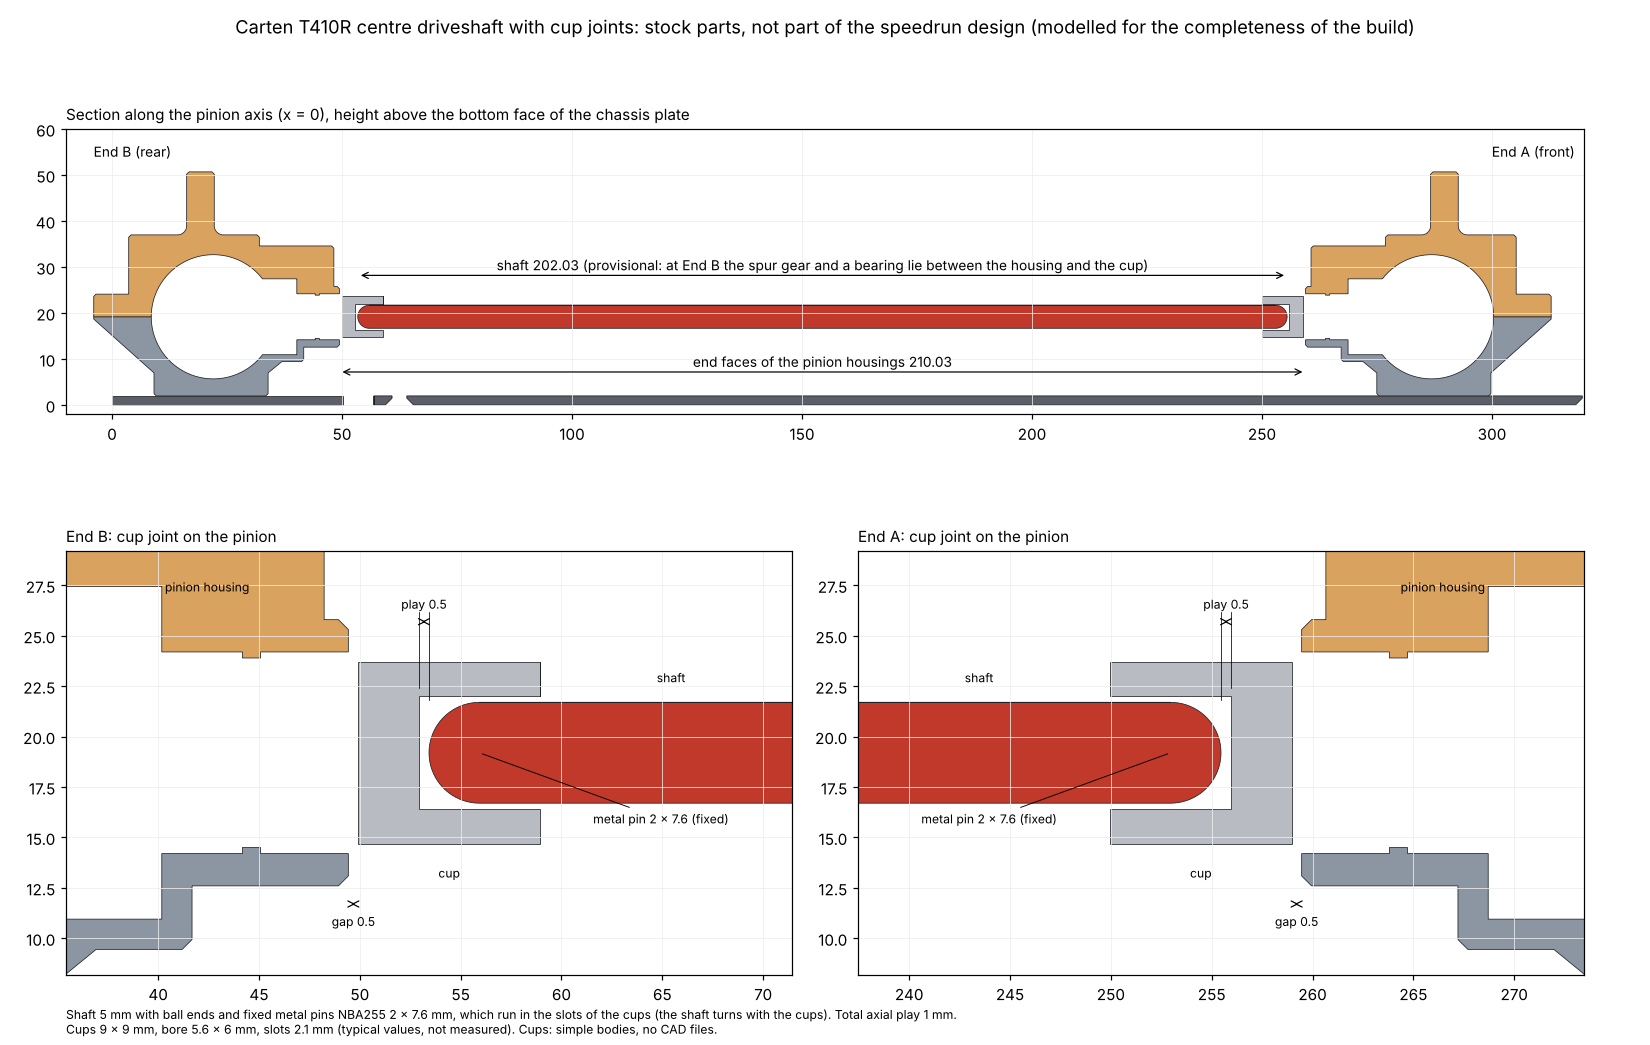
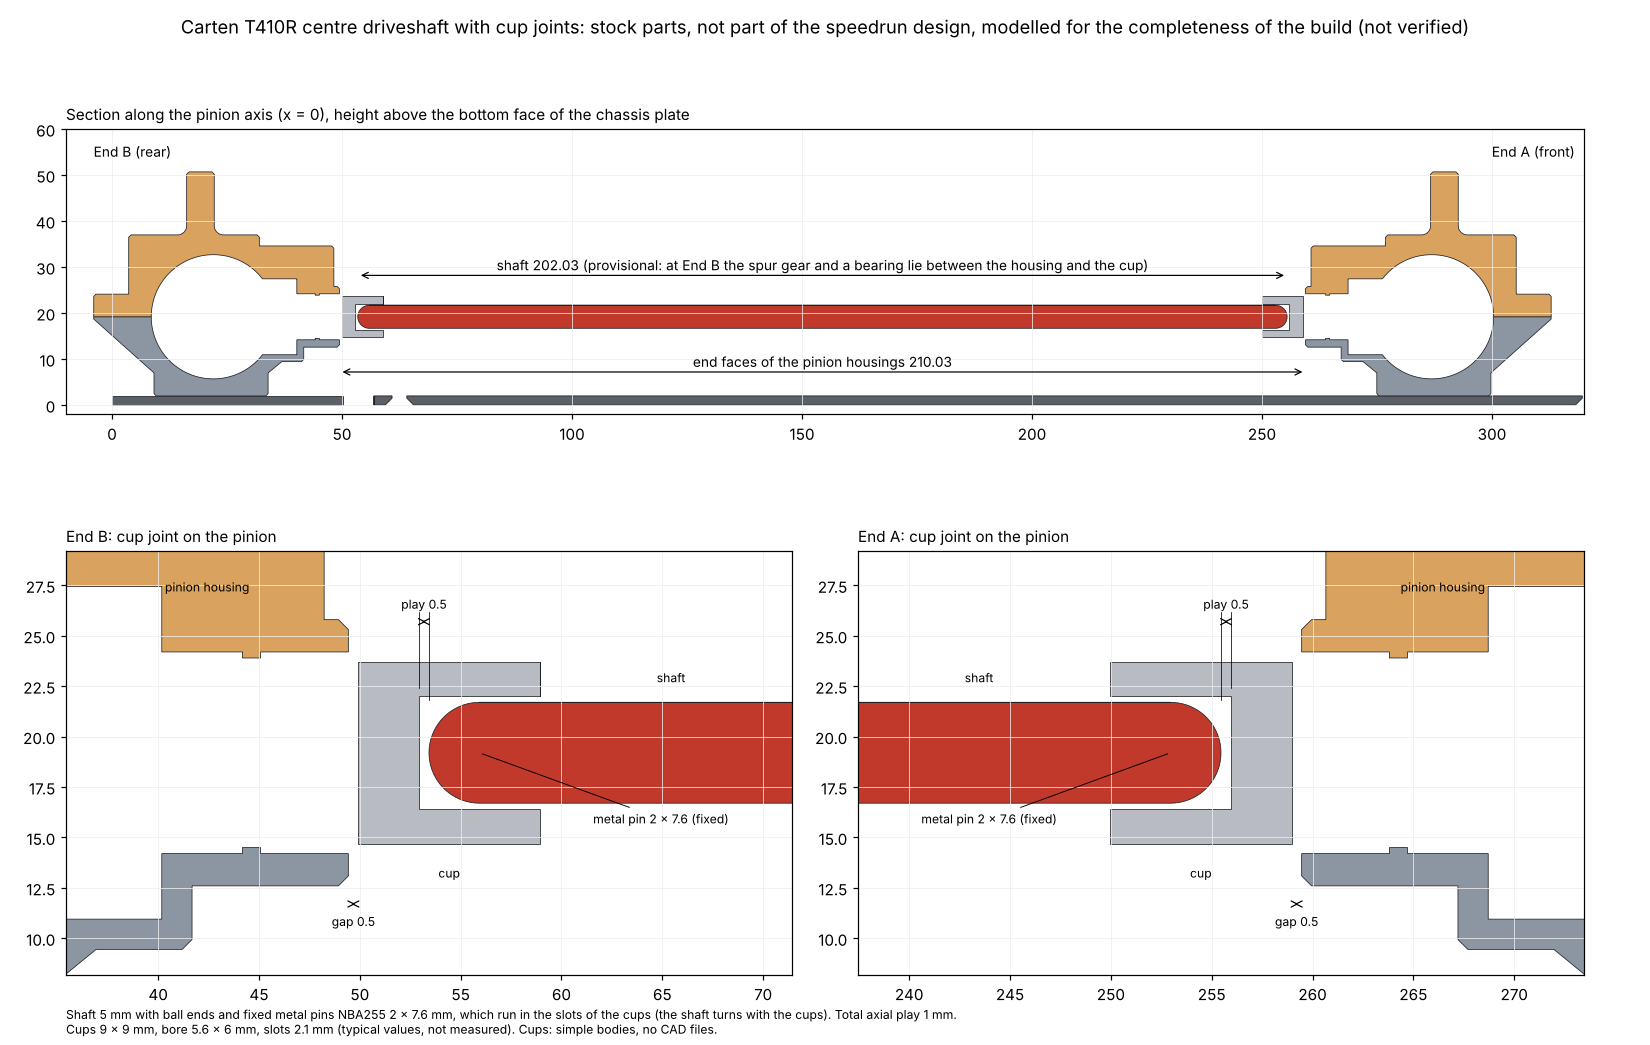
docs: list the stock parts as not verified
- Root readme and CAD readme: table of the stock parts below the parts
  table of the speedrun chassis (pivot blocks, centre driveshaft), status
  "Not verified", not in the mass total. "All parts are verified" now refers
  to the parts of the speedrun design.
- Status lines of the stock part sections, cad/stock_parts/readme.md and
  the titles of the pivot block and driveshaft drawings: not verified.
- CAD readme: the assembly file contains 8 parts of the speedrun chassis
  and 5 stock parts.

Claude-Session: https://claude.ai/code/session_012MJxxEEjoVgHx6jU6rcxWi

Changed region(s): [[0.1236, 0.0, 0.8964, 0.0306]]

diff --git a/scripts/cad/generate_driveshaft.py b/scripts/cad/generate_driveshaft.py
@@ -154,8 +154,8 @@ def drawing(path, p, lay, items):
 
     z = lay["z"]
     fig = plt.figure(figsize=(15, 9.5))
-    fig.suptitle("Carten T410R centre driveshaft with cup joints: stock parts, not part of the speedrun design "
-                 "(modelled for the completeness of the build)", fontsize=12, y=0.985)
+    fig.suptitle("Carten T410R centre driveshaft with cup joints: stock parts, not part of the speedrun design, "
+                 "modelled for the completeness of the build (not verified)", fontsize=12, y=0.985)
     ax = fig.add_axes([0.04, 0.55, 0.92, 0.38])
     draw(ax)
     y0, y1 = lay["shaft"]

diff --git a/scripts/cad/generate_pivot_blocks.py b/scripts/cad/generate_pivot_blocks.py
@@ -134,8 +134,8 @@ def drawing(path, p, solids):
         return out
 
     fig = plt.figure(figsize=(15, 9.5))
-    fig.suptitle("Carten T410R pivot blocks: stock parts, not part of the speedrun design (modelled for the "
-                 "completeness of the build)",
+    fig.suptitle("Carten T410R pivot blocks: stock parts, not part of the speedrun design, modelled for the "
+                 "completeness of the build (not verified)",
                  fontsize=12, y=0.985)
     w = p["width"]
     for row, kind in enumerate(("long", "short")):

diff --git a/cad/readme.md b/cad/readme.md
@@ -97,12 +97,19 @@ The speedrun chassis combines the parts that are designed in this project for sp
 | [Speedrun rear shock tower](#speedrun-shock-towers) | 1 | `/shock_tower` | Verified | Carbon or 7075 | 7.6 g (carbon), 13.4 g (7075) |
 | **Total** | | | | Chassis plate 6082, bulkheads 7075, top brace and shock towers carbon | **417 g** |
 
+Stock parts of the Carten T410R, modelled for the completeness of the build (not part of the speedrun design, not in the mass total):
+
+| Stock part | Quantity | Directory | Status |
+|:---|---:|:---|:---|
+| [Pivot blocks of the wishbones](#pivot-blocks-stock-parts-not-part-of-the-speedrun-design) (long and short block) | 4 | `/stock_parts/pivot_block` | Not verified |
+| [Centre driveshaft with fixed metal pins](#centre-driveshaft-stock-parts-not-part-of-the-speedrun-design) | 1 | `/stock_parts/driveshaft` | Not verified |
+
 * The masses are calculated from the volumes of the solid models (6082: 2.70 g/cm³, 7075: 2.81 g/cm³, carbon: 1.6 g/cm³). Screws, bearings and the other parts of the car are not included.
 * The bulkheads are the same parts at both ends. At End A, they are rotated by 180 degrees, so that both pinions point to the middle of the car.
 * The end of the top brace with the obround is at End B (motor window, spur gear). End A is assumed to be the front (see [open points of the lower bulkhead](#open-points-of-the-lower-bulkhead)).
 
 ### Assembly file
-* `assembly/speedrun_chassis_T410R.step`: assembly of all 8 parts in the coordinate system of the chassis plate (STEP AP214, one solid per part).
+* `assembly/speedrun_chassis_T410R.step`: assembly of the 8 parts of the speedrun chassis and the 5 stock parts (4 pivot blocks, centre driveshaft) in the coordinate system of the chassis plate (STEP AP214, one solid per part).
 * The assembly also contains the 4 stock pivot blocks of the wishbones (see [pivot blocks](#pivot-blocks-stock-parts-not-part-of-the-speedrun-design)) and the stock centre driveshaft (see [centre driveshaft](#centre-driveshaft-stock-parts-not-part-of-the-speedrun-design)). These parts are not part of the speedrun design, are modelled for the completeness of the build and are not in the mass total. The picture also shows the cups on the pinions and the cups of the diff outdrives as simple bodies; they are not in the STEP file.
 * The interference check of all pairs of parts gives 0 mm³, except 0.82 mm³ between the lower bulkhead at End B and the long pivot block (see [position and fit on the speedrun chassis](#position-and-fit-on-the-speedrun-chassis)).
 * The assembly file and the image are generated with the script `generate_speedrun_assembly.py` (see [scripts](#scripts)) from the files of the parts.
@@ -635,7 +642,7 @@ Both shock towers are verified by the owner. The following points are not requir
 ## Pivot blocks (stock parts, not part of the speedrun design)
 * **Author:** [@kleinnconrad](https://github.com/kleinnconrad)
 * **Description:** Models of the stock pivot blocks of the Carten T410R. The pivot blocks hold the hinge pins of the wishbones and are screwed to the chassis plate from below (countersunk screws M3). They are stock parts: they are not part of the speedrun design and are not manufactured in this project. They are modelled for the completeness of the build: the assembly of the speedrun chassis contains them, so that the space below the bulkheads can be checked.
-* **Status:** Not part of the speedrun design (stock part). The dimensions are measurements of the owner, the distances of the mounting holes are taken from the hole pattern of the speedrun chassis plate, the lengths of the shoulders are estimates from photos.
+* **Status:** Not verified. Not part of the speedrun design (stock part). The dimensions are measurements of the owner, the distances of the mounting holes are taken from the hole pattern of the speedrun chassis plate, the lengths of the shoulders are estimates from photos.
 
 ![Pivot blocks: sections and top views](../photos/cad_pivot_blocks_drawing.png)
 
@@ -685,7 +692,7 @@ All files are stored in the directory `/stock_parts/pivot_block`. They are gener
 ## Centre driveshaft (stock parts, not part of the speedrun design)
 * **Author:** [@kleinnconrad](https://github.com/kleinnconrad)
 * **Description:** Model of the centre driveshaft of the Carten T410R (NHA413) between the pinions of the two bulkheads. The shaft has a ball end at each end with a metal pin (NBA255, 2.0 x 7.6 mm), which is fixed on the shaft. The pins run in the slots of the cups on the pinion shafts, so the shaft turns with the cups (cup joint). The shaft is shorter than the distance between the bottoms of the two cups, so it can move a little back and forth. The shaft is a stock part: it is not part of the speedrun design and is not manufactured in this project. It is modelled for the completeness of the build. The cups on the pinions (NBA255) and the cups of the diff outdrives are shown as simple bodies in the assembly picture only; they are not modelled as CAD files.
-* **Status:** Not part of the speedrun design (stock parts). The position is derived from the models of this project, the length is provisional (see [open points of the centre driveshaft](#open-points-of-the-centre-driveshaft)). The cross pins are taken from the manual, the other dimensions of the cups and the shaft are typical values of 1:10 touring cars and are not measured on the car.
+* **Status:** Not verified. Not part of the speedrun design (stock part). The position is derived from the models of this project, the length is provisional (see [open points of the centre driveshaft](#open-points-of-the-centre-driveshaft)). The cross pins are taken from the manual, the other dimensions of the cups and the shaft are typical values of 1:10 touring cars and are not measured on the car.
 
 ![Centre driveshaft with the cup joints](../photos/cad_driveshaft_drawing.png)
 

diff --git a/readme.md b/readme.md
@@ -65,7 +65,14 @@ The speedrun chassis is designed in this project for speeds over 100 km/h. It co
 | Speedrun rear shock tower | 1 | Verified | 7.6 g (carbon) |
 | **Total** | | | **417 g** |
 
-* All parts are verified. The bulkheads have radii and edge chamfers on the outer side for CNC milling; the inside of the parts is the verified geometry (see [edges of the outer shape](cad/readme.md#edges-of-the-outer-shape)). The stock shock tower plates do not fit the speedrun upper bulkhead; the [speedrun shock towers](cad/readme.md#speedrun-shock-towers) are designed for it. All holes of the towers are at the positions of the stock towers; the shock tower wall of the upper bulkhead is narrowed so that the rod ends of the camber links have space beside it. The status of each part, the open points and all files are described in the [CAD readme](cad/readme.md#speedrun-chassis).
+Stock parts of the Carten T410R, modelled for the completeness of the build (not part of the speedrun design, not in the mass total):
+
+| Stock part | Quantity | Status | Directory |
+|:---|---:|:---|:---|
+| Pivot blocks of the wishbones (long and short block) | 4 | Not verified | `cad/stock_parts/pivot_block` |
+| Centre driveshaft with fixed metal pins | 1 | Not verified | `cad/stock_parts/driveshaft` |
+
+* All parts of the speedrun design are verified. The stock parts are not verified. The bulkheads have radii and edge chamfers on the outer side for CNC milling; the inside of the parts is the verified geometry (see [edges of the outer shape](cad/readme.md#edges-of-the-outer-shape)). The stock shock tower plates do not fit the speedrun upper bulkhead; the [speedrun shock towers](cad/readme.md#speedrun-shock-towers) are designed for it. All holes of the towers are at the positions of the stock towers; the shock tower wall of the upper bulkhead is narrowed so that the rod ends of the camber links have space beside it. The status of each part, the open points and all files are described in the [CAD readme](cad/readme.md#speedrun-chassis).
 * The assembly is available as a STEP file (`cad/assembly/speedrun_chassis_T410R.step`).
 
 ## Repository structure

diff --git a/cad/stock_parts/readme.md b/cad/stock_parts/readme.md
@@ -1,5 +1,5 @@
 # Stock parts of the Carten T410R
 The files in this directory are models of stock parts of the Carten T410R. They are not part of the speedrun design and are not manufactured in this project. They are modelled for the completeness of the build: the assembly of the speedrun chassis contains them, so that the space around the speedrun parts can be checked.
 
-* **`/pivot_block`**: Pivot blocks of the wishbones, long block (1 piece) and short block (3 pieces), STEP, STL and parameter file. Description and checks: see the [CAD readme](../readme.md#pivot-blocks-stock-parts-not-part-of-the-speedrun-design).
-* **`/driveshaft`**: Centre driveshaft between the pinions of the two bulkheads, with the fixed metal pins of the cup joints, STEP, STL and parameter file. The cups on the pinions and the diff outdrives are shown in the assembly picture only. Description and checks: see the [CAD readme](../readme.md#centre-driveshaft-stock-parts-not-part-of-the-speedrun-design).
+* **`/pivot_block`**: Pivot blocks of the wishbones, long block (1 piece) and short block (3 pieces), STEP, STL and parameter file. Status: not verified. Description and checks: see the [CAD readme](../readme.md#pivot-blocks-stock-parts-not-part-of-the-speedrun-design).
+* **`/driveshaft`**: Centre driveshaft between the pinions of the two bulkheads, with the fixed metal pins of the cup joints, STEP, STL and parameter file. The cups on the pinions and the diff outdrives are shown in the assembly picture only. Status: not verified. Description and checks: see the [CAD readme](../readme.md#centre-driveshaft-stock-parts-not-part-of-the-speedrun-design).
